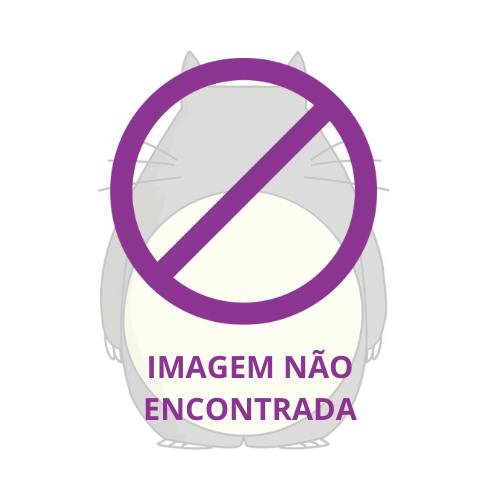
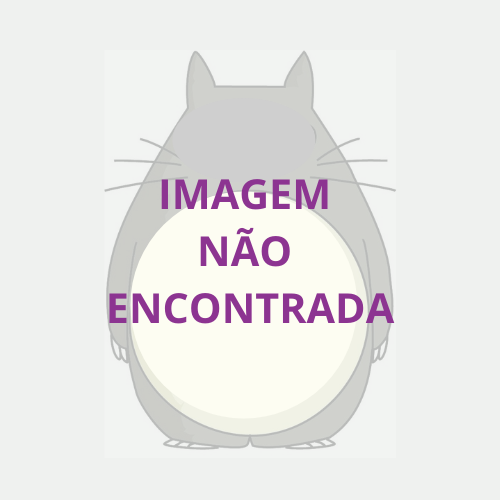
Final validação de imagens

Changed region(s): [[0.18, 0.09, 0.81, 0.9], [0.48, 0.87, 0.51, 0.9]]

diff --git a/src/characters.js b/src/characters.js
@@ -39,6 +39,8 @@ const printPeople = (peopleList, film)=>{
   })
   
   gallery.innerHTML += charactersCards
+  
+  
 }
 
 for (let film of films) {
@@ -48,37 +50,25 @@ for (let film of films) {
 
 //Trocando imagens não encontradas
 
-const imageValidation = (peopleList) =>{
+const imageValidation = () =>{
 
-  const arrayImg = []
-    for (let people of peopleList){
-      let imgId = people.id
-      arrayImg.push(imgId)
+  let arrayImgs = document.querySelectorAll(".card-img")
+
+    for(let img of arrayImgs){
+      const url = img.getAttribute("src")
+      const xhr = new XMLHttpRequest();
+      xhr.onload = () => {
+        if (xhr.status != 200) {
+          img.setAttribute("src","img/not-found2.png")
+        }
+      };
+    
+      xhr.open('HEAD', url);
+      xhr.send();
     }
-  
-
-  for(let img of arrayImg){
-    const image = document.getElementById(img)
-    const url = image.getAttribute("src")
-    const xhr = new XMLHttpRequest();
-    xhr.onload = () => {
-      if (xhr.status != 200) {
-        image.setAttribute("src","img/not-found.png")
-      }
-    };
-  
-    xhr.open('HEAD', url);
-    xhr.send();
   }
-}
 
-for (let film of films) {
-  let peopleList = film.people
-  imageValidation(peopleList)
-}
-
-
-
+  imageValidation()
 
 
 const filterBtn = document.getElementById("filter-btn")
@@ -101,7 +91,7 @@ const genderFilter = (film,gender) => {
 const filterGender=document.getElementById("filter-gender")
 const filterMovie = document.getElementById("filter-movie")
 
-filterGender.addEventListener("change", (event)=>{
+filterGender.addEventListener("change", ()=>{
   gallery.innerHTML=""
   const genderSelected = filterGender.options[filterGender.selectedIndex]
   const genderValue = genderSelected.value
@@ -114,12 +104,12 @@ filterGender.addEventListener("change", (event)=>{
   if(movie !== undefined){
     if(genderValue!="All"){
       printPeople(genderFilter(movie, genderValue),movie.title)
-      imageValidation(genderFilter(movie, genderValue))
+      // imageValidation(genderFilter(movie, genderValue))
       
     } else{
       const people = movie.people
       printPeople(people, movie.title)
-      imageValidation(people)
+      // imageValidation(people)
       
     }
   }else{
@@ -128,22 +118,20 @@ filterGender.addEventListener("change", (event)=>{
       films.forEach(film => {
         genderList = genderFilter(film, genderValue)
         printPeople(genderList,film.title)
-        imageValidation(genderList) //não funciona
-      }
-      
-      )
-      
+        // imageValidation(genderList) //não funciona
+      })
 
     }else{
       films.forEach(film => {
         const peopleList = film.people
         printPeople(peopleList, film.title)
-        imageValidation(peopleList) //não funciona
+        // imageValidation(peopleList) //não funciona
       })
       
     }
   }
-  event.preventDefault()
+  imageValidation()
+  
 })
 
 //filtro por filme
@@ -175,13 +163,13 @@ filterMovie.addEventListener("change", ()=>{
   if(genderValue !== "All"){
     if(movie !== undefined){
       printPeople(genderFilter(movie, genderValue),movie.title)
-      imageValidation(genderFilter(movie, genderValue))
+      // imageValidation(genderFilter(movie, genderValue))
 
 
     }else{
       films.forEach(film => {
         printPeople(genderFilter(film, genderValue),film.title)
-        imageValidation(genderFilter(film, genderValue))
+        // imageValidation(genderFilter(film, genderValue))
       })
       
     }
@@ -189,16 +177,17 @@ filterMovie.addEventListener("change", ()=>{
     if(movie !== undefined){
       const people = movie.people
       printPeople(people, movie.title)
-      imageValidation(people)
+      // imageValidation(people)
     }
     else{
       films.forEach(film => {
         const peopleList = film.people
         printPeople(peopleList,film.title)
-        imageValidation(peopleList) //não funciona
+        // imageValidation(peopleList) //não funciona
       })
       
     }
-  }  
+  } 
+  imageValidation() 
 })
 

diff --git a/src/movies.js b/src/movies.js
@@ -7,28 +7,25 @@ import data from './data/ghibli/ghibli.js'
 
 const films = data.films
 
-const imageValidation = (peopleList) =>{
 
-  const arrayImg = []
-  for (let people of peopleList){
-    let imgId = people.id
-    arrayImg.push(imgId)
-  }
+const imageValidation = (className) =>{
 
-  for(let img of arrayImg){
-    const image = document.getElementById(img)
-    const url = image.getAttribute("src")
-    const xhr = new XMLHttpRequest();
-    xhr.onload = () => {
-      if (xhr.status != 200) {
-        image.setAttribute("src","img/not-found.png")
-      }
-    };
-  
-    xhr.open('HEAD', url);
-    xhr.send();
-  }
+  let arrayImgs = document.querySelectorAll(className)
+
+    for(let img of arrayImgs){
+      const url = img.getAttribute("src")
+      const xhr = new XMLHttpRequest();
+      xhr.onload = () => {
+        if (xhr.status != 200) {
+          img.setAttribute("src","img/not-found-small.png")
+        }
+      };
+    
+      xhr.open('HEAD', url);
+      xhr.send();
+    }
 }
+
 
 const containerMovies = document.getElementById("container-movies")
 const printMovieList = (movieList) => {
@@ -97,23 +94,6 @@ const printMovieList = (movieList) => {
 
   })
 
-  let arrayImgs = document.querySelectorAll(".character-picture")
-
-    for(let img of arrayImgs){
-      const url = img.getAttribute("src")
-      const xhr = new XMLHttpRequest();
-      xhr.onload = () => {
-        if (xhr.status != 200) {
-          img.setAttribute("src","img/not-found.png")
-        }
-      };
-    
-      xhr.open('HEAD', url);
-      xhr.send();
-    }
-  
-  
-
 }
 
 
@@ -149,7 +129,7 @@ const seeMoreCharacters = () => {
 
       })
 
-      imageValidation(peopleOfMovieSelected)
+      imageValidation(".image-modal")
 
      
 
@@ -182,6 +162,7 @@ const seeMoreCharacters = () => {
 window.addEventListener('DOMContentLoaded', () =>{
   printMovieList(films)
   seeMoreCharacters()
+  imageValidation(".character-picture")
   
 })
 
@@ -212,16 +193,15 @@ filterBtn.addEventListener("click",(event)=>{
 
 //IMPRIMINDO LISTA ORDENADA
 
-order.addEventListener("change", (event) => {
+order.addEventListener("change", () => {
   containerMovies.innerHTML = ""
   const optionSelected = order.options[order.selectedIndex]
   const optionValue = optionSelected.value
   const optionClass = optionSelected.getAttribute("class")
   const sortedList = sortData(films, optionClass, optionValue)
   printMovieList(sortedList)
+  imageValidation(".character-picture")
   seeMoreCharacters()
-  event.preventDefault()
-
 
 })
 
@@ -276,7 +256,7 @@ arrayProducers.forEach(producer => {
 
 
 
-filter.addEventListener("change", (event) => {
+filter.addEventListener("change", () => {
   containerMovies.innerHTML = ""
   const optionSelected = filter.options[filter.selectedIndex]
   const optionText = optionSelected.text
@@ -284,9 +264,8 @@ filter.addEventListener("change", (event) => {
 
   const filteredList = filterData(films, optionClass, optionText)
   printMovieList(filteredList)
+  imageValidation(".character-picture")
   seeMoreCharacters()
-
-  event.preventDefault()
 
 })
 

diff --git a/test/data.spec.js b/test/data.spec.js
@@ -148,6 +148,6 @@ describe('average', () => {
   });
 
   it('should return 30 for [84,5,2,74,9,6]', () => {
-    expect(average([84,5,2,74,9,6])).toStrictEqual(30);
+    expect(average([84,5,2,74,9,6])).toBe(30);
   });
 });
